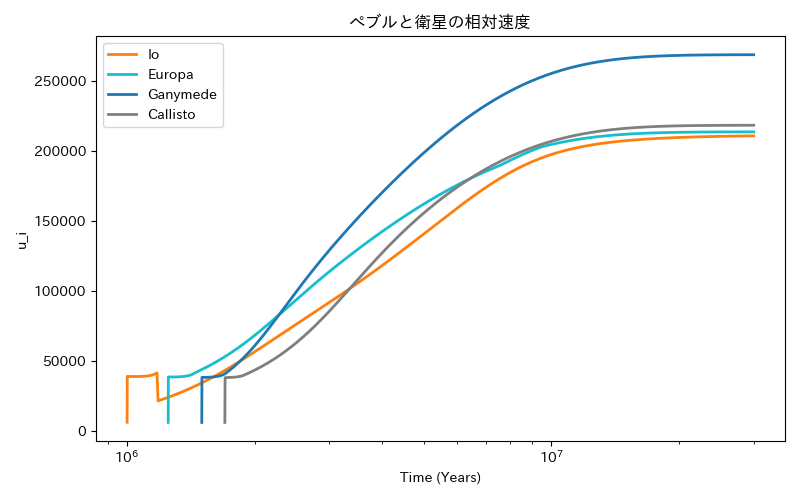
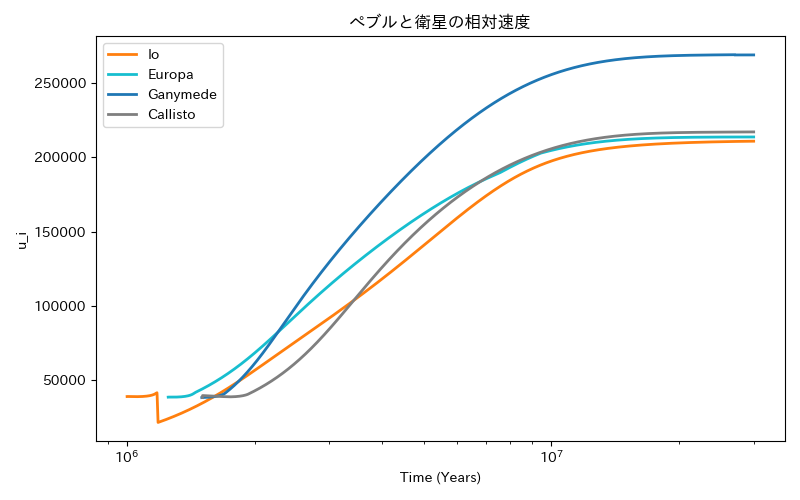
カリストの捕獲時間を1.505e6にした

diff --git a/gallilean_central_flax.py b/gallilean_central_flax.py
@@ -28,7 +28,7 @@ L_sun_early = 0.70 * L_sun # 形成初期の太陽光度 (現在の75%)
 T_bg = (L_sun_early / (16.0 * np.pi * a_J**2 * sigma_sb))**0.25 # 太陽輻射による木星軌道付近の平衡温度 
 rho_ice = 1.4              # 氷の密度 (g/cm^3)
 rho_rock = 3.0             # 岩石の密度 (g/cm^3)
-rho_int= 1.4e-3                # ダストの内部密度 (g/cm^3)
+rho_int= 1.4e-1                # ダストの内部密度 (g/cm^3)
 
 # ====================
 # ======================
@@ -599,7 +599,7 @@ satellites = [
     Satellite("Io",       1.00e6, 50.0 * R_J),
     Satellite("Europa",   1.25e6, 50.0 * R_J),
     Satellite("Ganymede", 1.50e6, 50.0 * R_J),
-    Satellite("Callisto", 1.70e6, 50.0 * R_J)
+    Satellite("Callisto", 1.7e6, 50.0 * R_J)
 ]
 
 # ==========================================
@@ -1258,7 +1258,7 @@ for name in fixed_orbits.keys():
 
 plt.xlabel("Time [years]", fontsize=14)
 plt.ylabel("Temperature [K]", fontsize=14)
-plt.title("Evolution of Temperatures at Fixed Orbits", fontsize=16)
+plt.title("Evolution of Temperatures at Fixed Orbits central.png", fontsize=16)
 plt.xscale("log") 
 
 # 凡例を2列にして配置
@@ -1333,3 +1333,89 @@ plt.grid(True, which="both", linestyle=":", alpha=0.7)
 plt.tight_layout()
 plt.savefig("tau_evolution_ganymede_comparison.png")
 
+
+# ==========================================
+# 追加: 軌道半径に対するペブル半径の空間分布（4時刻の比較）
+# ==========================================
+snapshot_times_Rd = [1.0e6, 3.0e6, 1.0e7, 3.0e7]  # 比較する4つの時刻 [yr]
+colors_Rd = ['tab:purple', 'tab:green', 'tab:cyan', 'tab:orange']
+
+# 外側 (50 R_J) から内側 (1 R_J) へ向かう軌道半径の配列（降順）
+r_array_RJ_desc = np.logspace(np.log10(50.0), np.log10(1.0), 60)
+r_array_desc = r_array_RJ_desc * R_J
+
+plt.figure(figsize=(9, 6))
+
+for t_snap, col in zip(snapshot_times_Rd, colors_Rd):
+    M_cp_MJ_s = calculate_M_cp(t_snap, t_gap)
+    M_cp_kg_s = M_cp_MJ_s * M_J
+    M_dot_g_kg_s_s = calculate_mdot_g(t_snap, t_gap) * M_J / (365.25 * 24 * 3600)
+    M_dot_p_s = x * M_dot_g_kg_s_s
+    L_cp_s = calculate_L_cp(t_snap, t_gap)
+
+    # 外縁 (50 R_J) でのペブル初期状態
+    curr_r = 50.0 * R_J
+    curr_Rd = 1e-2  # 初期半径 [cm]
+
+    valid_r_RJ = []
+    Rd_eff_list = []
+
+    for r_val in r_array_desc:
+        # 1つ外側のグリッド点から r_val までバトンパス方式で成長を積分
+        st_p_val, next_Rd = calculate_st_p_integrated_relay(
+            M_cp_kg_s, M_dot_g_kg_s_s, alpha, r_gg, L_cp_s, M_dot_p_s,
+            target_r=r_val,
+            start_r=curr_r,
+            start_R_d=curr_Rd,
+            rho_int=rho_int
+        )
+
+        # 次の内側グリッド用にバトンを更新
+        curr_r = r_val
+        curr_Rd = next_Rd
+
+        # 破壊限界 (st_p_frag) を考慮した実効的なペブル半径を st_p から逆算
+        _, q_val = calculate_p_q(M_cp_kg_s, M_dot_g_kg_s_s, r_val, alpha, r_gg, L_cp_s)
+        T_d_val, Sigma_g_val = calculate_disk_structure(
+            M_cp_kg_s, M_dot_g_kg_s_s, r_val, alpha, r_gg, L_cp_s, q_guess=q_val
+        )
+        if np.isnan(T_d_val):
+            continue
+
+        Omega_K_val = np.sqrt(G * M_cp_kg_s / r_val**3)
+        c_s_val = np.sqrt((k_B * T_d_val) / m_g)
+        H_g_val = c_s_val / Omega_K_val
+        eta_val, _ = calculate_eta(M_cp_kg_s, M_dot_g_kg_s_s, r_val, alpha, r_gg, L_cp_s)
+        eta_safe_val = max(abs(eta_val), 1e-15)
+
+        # St^2 = (8*sqrt(2*pi)/3) * (rho_int * H_g * R_d) / (Sigma_g * eta * r) より R_d を逆算
+        Rd_eff = (st_p_val**2) * (3.0 * Sigma_g_val * eta_safe_val * r_val) / (
+            8.0 * np.sqrt(2.0 * np.pi) * rho_int * H_g_val
+        )
+
+        valid_r_RJ.append(r_val / R_J)
+        Rd_eff_list.append(Rd_eff)
+
+    plt.plot(
+        valid_r_RJ, Rd_eff_list,
+        label=f't = {t_snap/1e6:.0f} Myr',
+        color=col, linewidth=2
+    )
+plt.xscale('log')
+plt.yscale('log')
+# 参考：現在のガリレオ衛星の軌道位置を縦線で表示
+for name, r_fix in fixed_orbits.items():
+    plt.axvline(x=r_fix / R_J, color='gray', linestyle=':', alpha=0.6)
+    plt.text(r_fix / R_J, plt.ylim()[0], name, rotation=90,
+             verticalalignment='bottom', horizontalalignment='right', fontsize=9, color='gray')
+
+
+plt.xlabel('Orbital Radius ($R_J$)', fontsize=14)
+plt.ylabel('Pebble Radius $R_d$ (cm)', fontsize=14)
+plt.title('軌道半径に対するペブル半径の進化', fontsize=16)
+plt.xticks([1, 2, 5, 10, 20, 50], ['1', '2', '5', '10', '20', '50'], fontsize=12)
+plt.legend(fontsize=12)
+plt.grid(True, which="both", linestyle=":", alpha=0.7)
+plt.tight_layout()
+plt.savefig("pebble_radius_vs_r_central_flux.png")
+plt.close()
